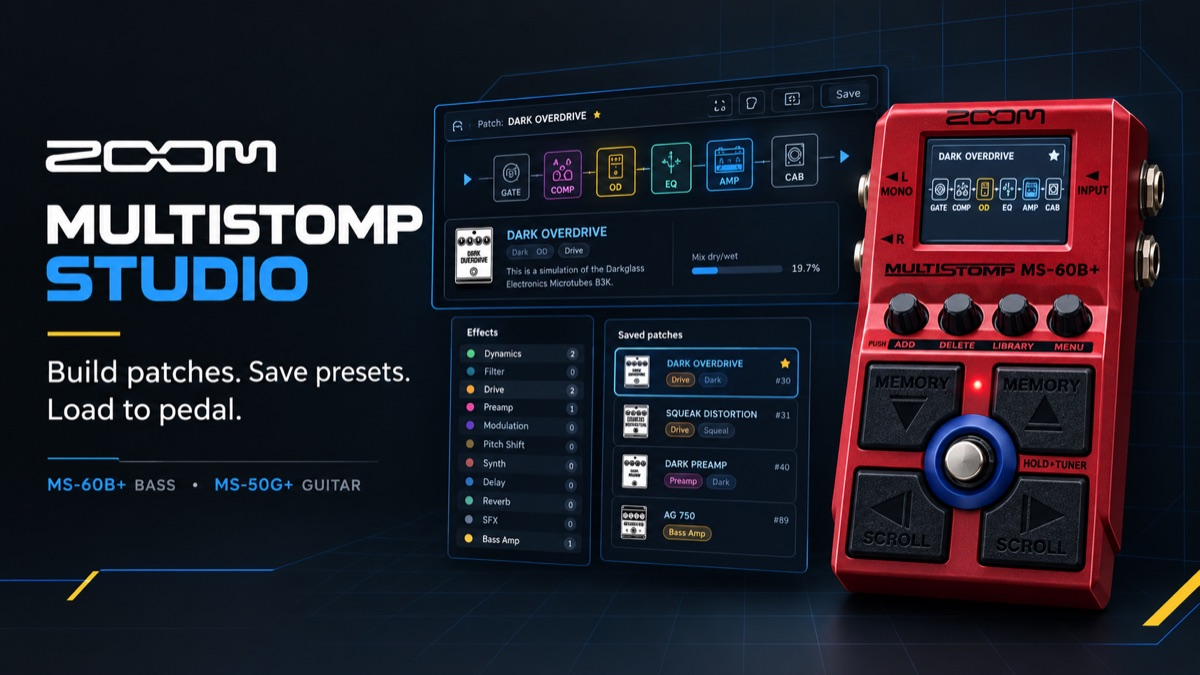
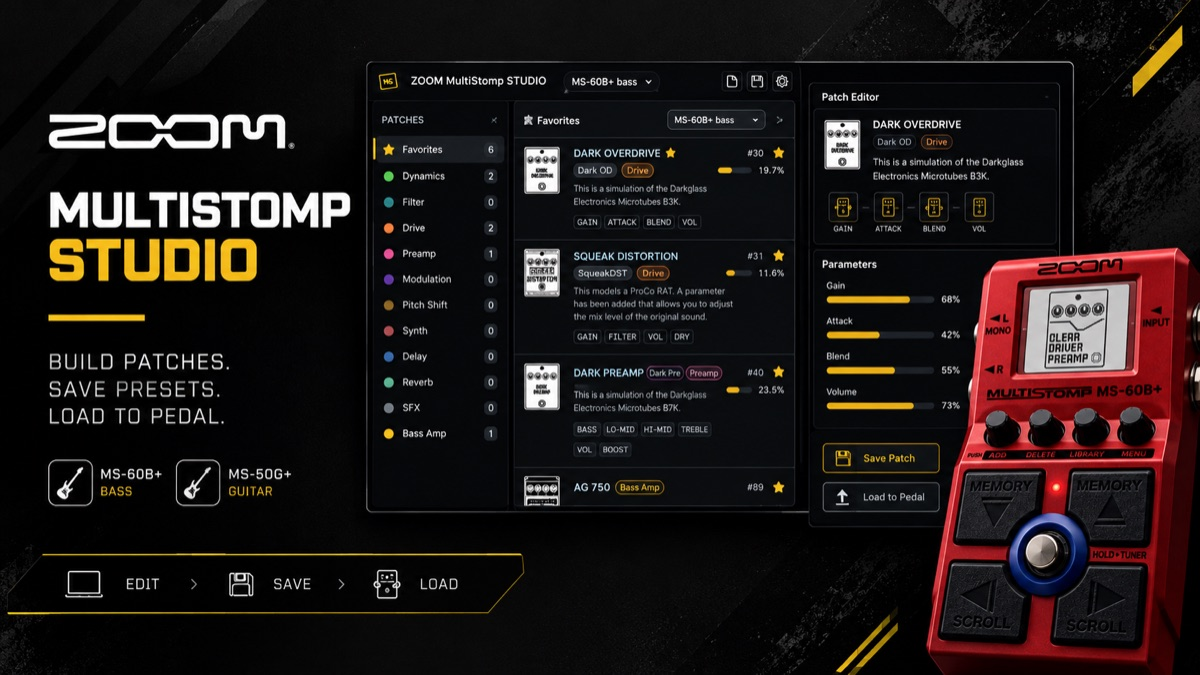
Link preview image: new version

diff --git a/site/ms-60b/pedal-manager.html b/site/ms-60b/pedal-manager.html
@@ -14,7 +14,7 @@
     <meta property="og:image" content="https://zoommultistompstudio.tongatron.org/og-image.jpg" />
     <meta property="og:image:width" content="1200" />
     <meta property="og:image:height" content="675" />
-    <meta property="og:image:alt" content="ZOOM MultiStomp Studio: build patches, save presets, load to the pedal. The Patch builder next to a red ZOOM MS-60B+ pedal, for the MS-60B+ bass and MS-50G+ guitar." />
+    <meta property="og:image:alt" content="ZOOM MultiStomp STUDIO: build patches, save presets, load to the pedal. A favorites list and the Patch Editor next to a red ZOOM MS-60B+ pedal, for the MS-60B+ bass and MS-50G+ guitar." />
     <meta name="twitter:card" content="summary_large_image" />
     <meta name="twitter:title" content="ZOOM MS-60B+ USB pedal manager: read and write patches | Patch Studio" />
     <meta name="twitter:description" content="Experimental: manage the patches stored on a ZOOM MS-60B+ over USB MIDI in Chrome or Edge. Read the memories, edit them in the builder and write patches back, with a backup before every change." />
@@ -144,7 +144,7 @@
       <a class="fs-b3" href="https://tongatron.org" target="_blank" rel="noreferrer" title="tongatron.org"><span class="fs-b3-dot" aria-hidden="true"></span>tongatron.org</a>
       <a href="https://github.com/tongatron/ZOOM-MultiStomp-Patch-Studio" target="_blank" rel="noreferrer">Source on GitHub</a>
       <a href="../privacy.html">Privacy</a>
-      <time class="gh-updated" datetime="2026-10-29T21:50Z">Last update 29 October 2026 22:50</time>
+      <time class="gh-updated" datetime="2026-10-29T21:59Z">Last update 29 October 2026 22:59</time>
     </footer>
 
     <dialog class="Overlay Overlay--small" id="usb-confirm" aria-labelledby="usb-confirm-title">

diff --git a/site/ms-60b/index.html b/site/ms-60b/index.html
@@ -14,7 +14,7 @@
     <meta property="og:image" content="https://zoommultistompstudio.tongatron.org/og-image.jpg" />
     <meta property="og:image:width" content="1200" />
     <meta property="og:image:height" content="675" />
-    <meta property="og:image:alt" content="ZOOM MultiStomp Studio: build patches, save presets, load to the pedal. The Patch builder next to a red ZOOM MS-60B+ pedal, for the MS-60B+ bass and MS-50G+ guitar." />
+    <meta property="og:image:alt" content="ZOOM MultiStomp STUDIO: build patches, save presets, load to the pedal. A favorites list and the Patch Editor next to a red ZOOM MS-60B+ pedal, for the MS-60B+ bass and MS-50G+ guitar." />
     <meta name="twitter:card" content="summary_large_image" />
     <meta name="twitter:title" content="ZOOM MS-60B+ effects list: 97 bass effects, parameters, DSP load | Patch Studio" />
     <meta name="twitter:description" content="Explore all 97 effects of the ZOOM MS-60B+ bass multi-effects pedal with the original Effects List text, every parameter and range, and the estimated DSP load. Then build a patch and export it for Handy Guitar Lab." />
@@ -117,7 +117,7 @@
       <a class="fs-b3" href="https://tongatron.org" target="_blank" rel="noreferrer" title="tongatron.org"><span class="fs-b3-dot" aria-hidden="true"></span>tongatron.org</a>
       <a href="https://github.com/tongatron/ZOOM-MultiStomp-Patch-Studio" target="_blank" rel="noreferrer">Source on GitHub</a>
       <a href="../privacy.html">Privacy</a>
-      <time class="gh-updated" datetime="2026-10-29T21:50Z">Last update 29 October 2026 22:50</time>
+      <time class="gh-updated" datetime="2026-10-29T21:59Z">Last update 29 October 2026 22:59</time>
     </footer>
 
     <script src="pedal.js?v=zoom51-20261028"></script>

diff --git a/site/ms-60b/builder.html b/site/ms-60b/builder.html
@@ -14,7 +14,7 @@
     <meta property="og:image" content="https://zoommultistompstudio.tongatron.org/og-image.jpg" />
     <meta property="og:image:width" content="1200" />
     <meta property="og:image:height" content="675" />
-    <meta property="og:image:alt" content="ZOOM MultiStomp Studio: build patches, save presets, load to the pedal. The Patch builder next to a red ZOOM MS-60B+ pedal, for the MS-60B+ bass and MS-50G+ guitar." />
+    <meta property="og:image:alt" content="ZOOM MultiStomp STUDIO: build patches, save presets, load to the pedal. A favorites list and the Patch Editor next to a red ZOOM MS-60B+ pedal, for the MS-60B+ bass and MS-50G+ guitar." />
     <meta name="twitter:card" content="summary_large_image" />
     <meta name="twitter:title" content="ZOOM MS-60B+ patch builder: design a bass patch and export .zptc | Patch Studio" />
     <meta name="twitter:description" content="Build ZOOM MS-60B+ patches in your browser: pick up to 6 effects, set every parameter, watch the DSP load and the advice on effect order and levels, and export a .zptc file for Handy Guitar Lab." />
@@ -165,7 +165,7 @@
       <a class="fs-b3" href="https://tongatron.org" target="_blank" rel="noreferrer" title="tongatron.org"><span class="fs-b3-dot" aria-hidden="true"></span>tongatron.org</a>
       <a href="https://github.com/tongatron/ZOOM-MultiStomp-Patch-Studio" target="_blank" rel="noreferrer">Source on GitHub</a>
       <a href="../privacy.html">Privacy</a>
-      <time class="gh-updated" datetime="2026-10-29T21:50Z">Last update 29 October 2026 22:50</time>
+      <time class="gh-updated" datetime="2026-10-29T21:59Z">Last update 29 October 2026 22:59</time>
     </footer>
 
     <dialog class="Overlay" id="picker" aria-labelledby="picker-title">

diff --git a/site/ms-60b/tones.html b/site/ms-60b/tones.html
@@ -14,7 +14,7 @@
     <meta property="og:image" content="https://zoommultistompstudio.tongatron.org/og-image.jpg" />
     <meta property="og:image:width" content="1200" />
     <meta property="og:image:height" content="675" />
-    <meta property="og:image:alt" content="ZOOM MultiStomp Studio: build patches, save presets, load to the pedal. The Patch builder next to a red ZOOM MS-60B+ pedal, for the MS-60B+ bass and MS-50G+ guitar." />
+    <meta property="og:image:alt" content="ZOOM MultiStomp STUDIO: build patches, save presets, load to the pedal. A favorites list and the Patch Editor next to a red ZOOM MS-60B+ pedal, for the MS-60B+ bass and MS-50G+ guitar." />
     <meta name="twitter:card" content="summary_large_image" />
     <meta name="twitter:title" content="ZOOM MS-60B+ bass tone ideas: patches by style and by bassist | Patch Studio" />
     <meta name="twitter:description" content="Starting points for ZOOM MS-60B+ bass patches by style and by bassist, with a focus on alternative rock: grunge, post-punk, indie, alt-metal and fuzz rock. Every idea cites its source and opens in the builder." />
@@ -68,7 +68,7 @@
       <a class="fs-b3" href="https://tongatron.org" target="_blank" rel="noreferrer" title="tongatron.org"><span class="fs-b3-dot" aria-hidden="true"></span>tongatron.org</a>
       <a href="https://github.com/tongatron/ZOOM-MultiStomp-Patch-Studio" target="_blank" rel="noreferrer">Source on GitHub</a>
       <a href="../privacy.html">Privacy</a>
-      <time class="gh-updated" datetime="2026-10-29T21:50Z">Last update 29 October 2026 22:50</time>
+      <time class="gh-updated" datetime="2026-10-29T21:59Z">Last update 29 October 2026 22:59</time>
     </footer>
 
     <script src="pedal.js?v=zoom51-20261028"></script>

diff --git a/site/ms-50g/builder.html b/site/ms-50g/builder.html
@@ -14,7 +14,7 @@
     <meta property="og:image" content="https://zoommultistompstudio.tongatron.org/og-image.jpg" />
     <meta property="og:image:width" content="1200" />
     <meta property="og:image:height" content="675" />
-    <meta property="og:image:alt" content="ZOOM MultiStomp Studio: build patches, save presets, load to the pedal. The Patch builder next to a red ZOOM MS-60B+ pedal, for the MS-60B+ bass and MS-50G+ guitar." />
+    <meta property="og:image:alt" content="ZOOM MultiStomp STUDIO: build patches, save presets, load to the pedal. A favorites list and the Patch Editor next to a red ZOOM MS-60B+ pedal, for the MS-60B+ bass and MS-50G+ guitar." />
     <meta name="twitter:card" content="summary_large_image" />
     <meta name="twitter:title" content="ZOOM MS-50G+ patch builder: design a guitar patch and export .zptc | Patch Studio" />
     <meta name="twitter:description" content="Build ZOOM MS-50G+ patches in your browser (not tested on the pedal yet): pick up to 6 effects, set every parameter, watch the DSP load and export a .zptc file for Handy Guitar Lab." />
@@ -158,7 +158,7 @@
       <a class="fs-b3" href="https://tongatron.org" target="_blank" rel="noreferrer" title="tongatron.org"><span class="fs-b3-dot" aria-hidden="true"></span>tongatron.org</a>
       <a href="https://github.com/tongatron/ZOOM-MultiStomp-Patch-Studio" target="_blank" rel="noreferrer">Source on GitHub</a>
       <a href="../privacy.html">Privacy</a>
-      <time class="gh-updated" datetime="2026-10-29T21:50Z">Last update 29 October 2026 22:50</time>
+      <time class="gh-updated" datetime="2026-10-29T21:59Z">Last update 29 October 2026 22:59</time>
     </footer>
 
     <dialog class="Overlay" id="picker" aria-labelledby="picker-title">

diff --git a/site/ms-50g/index.html b/site/ms-50g/index.html
@@ -14,7 +14,7 @@
     <meta property="og:image" content="https://zoommultistompstudio.tongatron.org/og-image.jpg" />
     <meta property="og:image:width" content="1200" />
     <meta property="og:image:height" content="675" />
-    <meta property="og:image:alt" content="ZOOM MultiStomp Studio: build patches, save presets, load to the pedal. The Patch builder next to a red ZOOM MS-60B+ pedal, for the MS-60B+ bass and MS-50G+ guitar." />
+    <meta property="og:image:alt" content="ZOOM MultiStomp STUDIO: build patches, save presets, load to the pedal. A favorites list and the Patch Editor next to a red ZOOM MS-60B+ pedal, for the MS-60B+ bass and MS-50G+ guitar." />
     <meta name="twitter:card" content="summary_large_image" />
     <meta name="twitter:title" content="ZOOM MS-50G+ effects list: 127 guitar effects, parameters, DSP load | Patch Studio" />
     <meta name="twitter:description" content="Explore all 127 effects of the ZOOM MS-50G+ guitar multi-effects pedal with the original Effects List text, every parameter and range, and the estimated DSP load. Not tested on the pedal yet." />
@@ -116,7 +116,7 @@
       <a class="fs-b3" href="https://tongatron.org" target="_blank" rel="noreferrer" title="tongatron.org"><span class="fs-b3-dot" aria-hidden="true"></span>tongatron.org</a>
       <a href="https://github.com/tongatron/ZOOM-MultiStomp-Patch-Studio" target="_blank" rel="noreferrer">Source on GitHub</a>
       <a href="../privacy.html">Privacy</a>
-      <time class="gh-updated" datetime="2026-10-29T21:50Z">Last update 29 October 2026 22:50</time>
+      <time class="gh-updated" datetime="2026-10-29T21:59Z">Last update 29 October 2026 22:59</time>
     </footer>
 
     <script src="pedal.js?v=zoom25-20261028"></script>

diff --git a/site/ms-60b/guide.html b/site/ms-60b/guide.html
@@ -14,7 +14,7 @@
     <meta property="og:image" content="https://zoommultistompstudio.tongatron.org/og-image.jpg" />
     <meta property="og:image:width" content="1200" />
     <meta property="og:image:height" content="675" />
-    <meta property="og:image:alt" content="ZOOM MultiStomp Studio: build patches, save presets, load to the pedal. The Patch builder next to a red ZOOM MS-60B+ pedal, for the MS-60B+ bass and MS-50G+ guitar." />
+    <meta property="og:image:alt" content="ZOOM MultiStomp STUDIO: build patches, save presets, load to the pedal. A favorites list and the Patch Editor next to a red ZOOM MS-60B+ pedal, for the MS-60B+ bass and MS-50G+ guitar." />
     <meta name="twitter:card" content="summary_large_image" />
     <meta name="twitter:title" content="ZOOM MS-60B+ guide: build a patch and load it on the pedal | Patch Studio" />
     <meta name="twitter:description" content="How to use the studio with the ZOOM MS-60B+: find an effect, build a patch, read the advice, save and share it, and load it on the pedal with Handy Guitar Lab or over USB." />
@@ -222,7 +222,7 @@
       <a class="fs-b3" href="https://tongatron.org" target="_blank" rel="noreferrer" title="tongatron.org"><span class="fs-b3-dot" aria-hidden="true"></span>tongatron.org</a>
       <a href="https://github.com/tongatron/ZOOM-MultiStomp-Patch-Studio" target="_blank" rel="noreferrer">Source on GitHub</a>
       <a href="../privacy.html">Privacy</a>
-      <time class="gh-updated" datetime="2026-10-29T21:50Z">Last update 29 October 2026 22:50</time>
+      <time class="gh-updated" datetime="2026-10-29T21:59Z">Last update 29 October 2026 22:59</time>
     </footer>
 
     <script src="pedal.js?v=zoom51-20261028"></script>

diff --git a/site/ms-50g/guide.html b/site/ms-50g/guide.html
@@ -14,7 +14,7 @@
     <meta property="og:image" content="https://zoommultistompstudio.tongatron.org/og-image.jpg" />
     <meta property="og:image:width" content="1200" />
     <meta property="og:image:height" content="675" />
-    <meta property="og:image:alt" content="ZOOM MultiStomp Studio: build patches, save presets, load to the pedal. The Patch builder next to a red ZOOM MS-60B+ pedal, for the MS-60B+ bass and MS-50G+ guitar." />
+    <meta property="og:image:alt" content="ZOOM MultiStomp STUDIO: build patches, save presets, load to the pedal. A favorites list and the Patch Editor next to a red ZOOM MS-60B+ pedal, for the MS-60B+ bass and MS-50G+ guitar." />
     <meta name="twitter:card" content="summary_large_image" />
     <meta name="twitter:title" content="ZOOM MS-50G+ guide: build a patch and load it with Handy Guitar Lab | Patch Studio" />
     <meta name="twitter:description" content="How to use the studio with the ZOOM MS-50G+ (not tested on the pedal yet): find an effect, build a patch, save and share it, and load it with Handy Guitar Lab." />
@@ -197,7 +197,7 @@
       <a class="fs-b3" href="https://tongatron.org" target="_blank" rel="noreferrer" title="tongatron.org"><span class="fs-b3-dot" aria-hidden="true"></span>tongatron.org</a>
       <a href="https://github.com/tongatron/ZOOM-MultiStomp-Patch-Studio" target="_blank" rel="noreferrer">Source on GitHub</a>
       <a href="../privacy.html">Privacy</a>
-      <time class="gh-updated" datetime="2026-10-29T21:50Z">Last update 29 October 2026 22:50</time>
+      <time class="gh-updated" datetime="2026-10-29T21:59Z">Last update 29 October 2026 22:59</time>
     </footer>
 
     <script src="pedal.js?v=zoom25-20261028"></script>

diff --git a/site/index.html b/site/index.html
@@ -16,7 +16,7 @@
     <meta property="og:image" content="https://zoommultistompstudio.tongatron.org/og-image.jpg" />
     <meta property="og:image:width" content="1200" />
     <meta property="og:image:height" content="675" />
-    <meta property="og:image:alt" content="ZOOM MultiStomp Studio: build patches, save presets, load to the pedal. The Patch builder next to a red ZOOM MS-60B+ pedal, for the MS-60B+ bass and MS-50G+ guitar." />
+    <meta property="og:image:alt" content="ZOOM MultiStomp STUDIO: build patches, save presets, load to the pedal. A favorites list and the Patch Editor next to a red ZOOM MS-60B+ pedal, for the MS-60B+ bass and MS-50G+ guitar." />
     <meta name="twitter:card" content="summary_large_image" />
     <meta name="twitter:title" content="ZOOM MS-60B+ and MS-50G+ patch editor — MultiStomp Patch Studio" />
     <meta name="twitter:description" content="Free online patch editor for the ZOOM MS-60B+ bass and MS-50G+ guitar MultiStomp pedals: browse every effect, build patches with a live DSP meter and smart advice, export .zptc files for Handy Guitar Lab and manage the pedal over USB." />
@@ -407,7 +407,7 @@
         <span class="gh-data">Data: ZOOM MS-60B+ and MS-50G+ Effects Lists © 2024 ZOOM CORPORATION. Not affiliated with ZOOM. Manufacturer names are used only to describe sonic character.</span>
         <div class="gh-footer-meta">
           <a class="gh-privacy" href="privacy.html">Privacy</a>
-          <time class="gh-updated" datetime="2026-10-29T21:50Z">Last update 29 October 2026 22:50</time>
+          <time class="gh-updated" datetime="2026-10-29T21:59Z">Last update 29 October 2026 22:59</time>
         </div>
       </div>
     </footer>

diff --git a/site/privacy.html b/site/privacy.html
@@ -14,7 +14,7 @@
     <meta property="og:image" content="https://zoommultistompstudio.tongatron.org/og-image.jpg" />
     <meta property="og:image:width" content="1200" />
     <meta property="og:image:height" content="675" />
-    <meta property="og:image:alt" content="ZOOM MultiStomp Studio: build patches, save presets, load to the pedal. The Patch builder next to a red ZOOM MS-60B+ pedal, for the MS-60B+ bass and MS-50G+ guitar." />
+    <meta property="og:image:alt" content="ZOOM MultiStomp STUDIO: build patches, save presets, load to the pedal. A favorites list and the Patch Editor next to a red ZOOM MS-60B+ pedal, for the MS-60B+ bass and MS-50G+ guitar." />
     <meta name="twitter:card" content="summary_large_image" />
     <meta name="twitter:title" content="Privacy — what the studio stores and where | Patch Studio" />
     <meta name="twitter:description" content="What ZOOM MultiStomp Patch Studio stores, where, and why: the data kept in your browser, the data kept in an account, emails, backups and how to delete everything." />
@@ -107,7 +107,7 @@
       <a class="fs-b3" href="https://tongatron.org" target="_blank" rel="noreferrer" title="tongatron.org"><span class="fs-b3-dot" aria-hidden="true"></span>tongatron.org</a>
       <a href="https://github.com/tongatron/ZOOM-MultiStomp-Patch-Studio" target="_blank" rel="noreferrer">Source on GitHub</a>
       <a href="privacy.html">Privacy</a>
-      <time class="gh-updated" datetime="2026-10-29T21:50Z">Last update 29 October 2026 22:50</time>
+      <time class="gh-updated" datetime="2026-10-29T21:59Z">Last update 29 October 2026 22:59</time>
     </footer>
 
     <script src="ms-60b/pedal.js?v=zoom51-20261028"></script>

diff --git a/site/ms-50g/help.html b/site/ms-50g/help.html
@@ -14,7 +14,7 @@
     <meta property="og:image" content="https://zoommultistompstudio.tongatron.org/og-image.jpg" />
     <meta property="og:image:width" content="1200" />
     <meta property="og:image:height" content="675" />
-    <meta property="og:image:alt" content="ZOOM MultiStomp Studio: build patches, save presets, load to the pedal. The Patch builder next to a red ZOOM MS-60B+ pedal, for the MS-60B+ bass and MS-50G+ guitar." />
+    <meta property="og:image:alt" content="ZOOM MultiStomp STUDIO: build patches, save presets, load to the pedal. A favorites list and the Patch Editor next to a red ZOOM MS-60B+ pedal, for the MS-60B+ bass and MS-50G+ guitar." />
     <meta name="twitter:card" content="summary_large_image" />
     <meta name="twitter:title" content="Help test the ZOOM MS-50G+: what we would need from owners | Patch Studio" />
     <meta name="twitter:description" content="Own a ZOOM MS-50G+? These short tests would show whether the patches made in the studio work on a real pedal. Pick the ones that fit your time." />
@@ -210,7 +210,7 @@
       <a class="fs-b3" href="https://tongatron.org" target="_blank" rel="noreferrer" title="tongatron.org"><span class="fs-b3-dot" aria-hidden="true"></span>tongatron.org</a>
       <a href="https://github.com/tongatron/ZOOM-MultiStomp-Patch-Studio" target="_blank" rel="noreferrer">Source on GitHub</a>
       <a href="../privacy.html">Privacy</a>
-      <time class="gh-updated" datetime="2026-10-29T21:50Z">Last update 29 October 2026 22:50</time>
+      <time class="gh-updated" datetime="2026-10-29T21:59Z">Last update 29 October 2026 22:59</time>
     </footer>
 
     <script src="pedal.js?v=zoom25-20261028"></script>

diff --git a/site/ms-60b/technical-notes.html b/site/ms-60b/technical-notes.html
@@ -14,7 +14,7 @@
     <meta property="og:image" content="https://zoommultistompstudio.tongatron.org/og-image.jpg" />
     <meta property="og:image:width" content="1200" />
     <meta property="og:image:height" content="675" />
-    <meta property="og:image:alt" content="ZOOM MultiStomp Studio: build patches, save presets, load to the pedal. The Patch builder next to a red ZOOM MS-60B+ pedal, for the MS-60B+ bass and MS-50G+ guitar." />
+    <meta property="og:image:alt" content="ZOOM MultiStomp STUDIO: build patches, save presets, load to the pedal. A favorites list and the Patch Editor next to a red ZOOM MS-60B+ pedal, for the MS-60B+ bass and MS-50G+ guitar." />
     <meta name="twitter:card" content="summary_large_image" />
     <meta name="twitter:title" content="ZOOM .zptc patch format and USB MIDI: technical notes | Patch Studio" />
     <meta name="twitter:description" content="How the ZOOM .zptc patch file format of the MS-60B+ and MS-50G+ was reverse-engineered, and how the site talks to the pedal over USB MIDI." />
@@ -68,7 +68,7 @@
       <a class="fs-b3" href="https://tongatron.org" target="_blank" rel="noreferrer" title="tongatron.org"><span class="fs-b3-dot" aria-hidden="true"></span>tongatron.org</a>
       <a href="https://github.com/tongatron/ZOOM-MultiStomp-Patch-Studio" target="_blank" rel="noreferrer">Source on GitHub</a>
       <a href="../privacy.html">Privacy</a>
-      <time class="gh-updated" datetime="2026-10-29T21:50Z">Last update 29 October 2026 22:50</time>
+      <time class="gh-updated" datetime="2026-10-29T21:59Z">Last update 29 October 2026 22:59</time>
     </footer>
 
     <script src="pedal.js?v=zoom51-20261028"></script>
